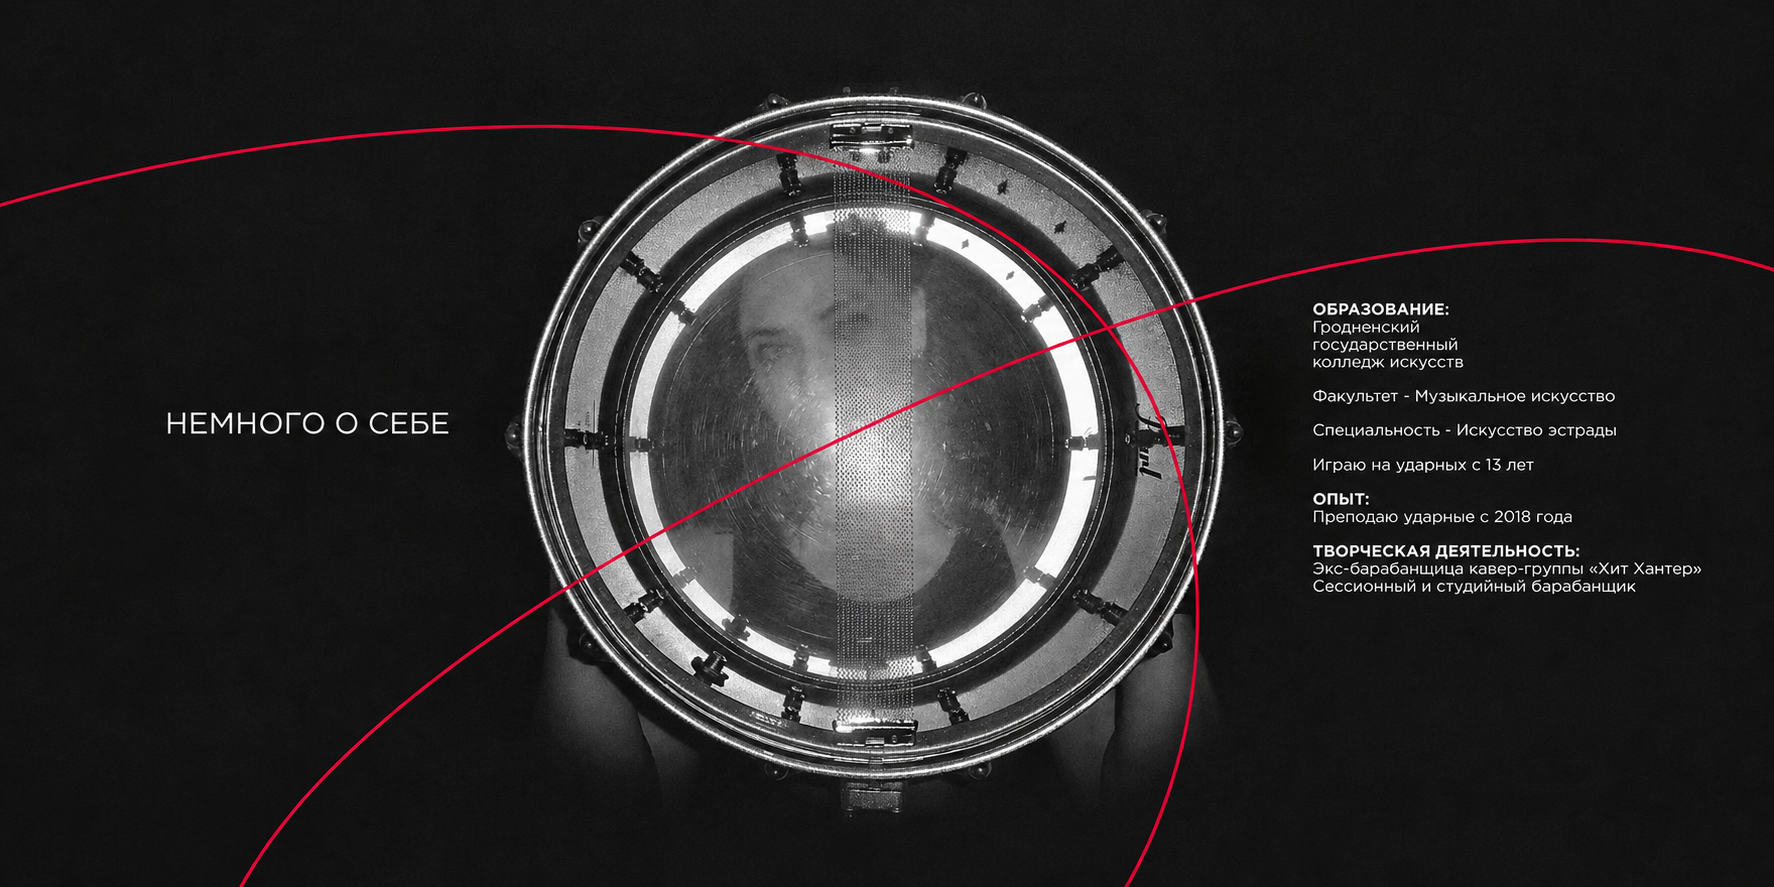
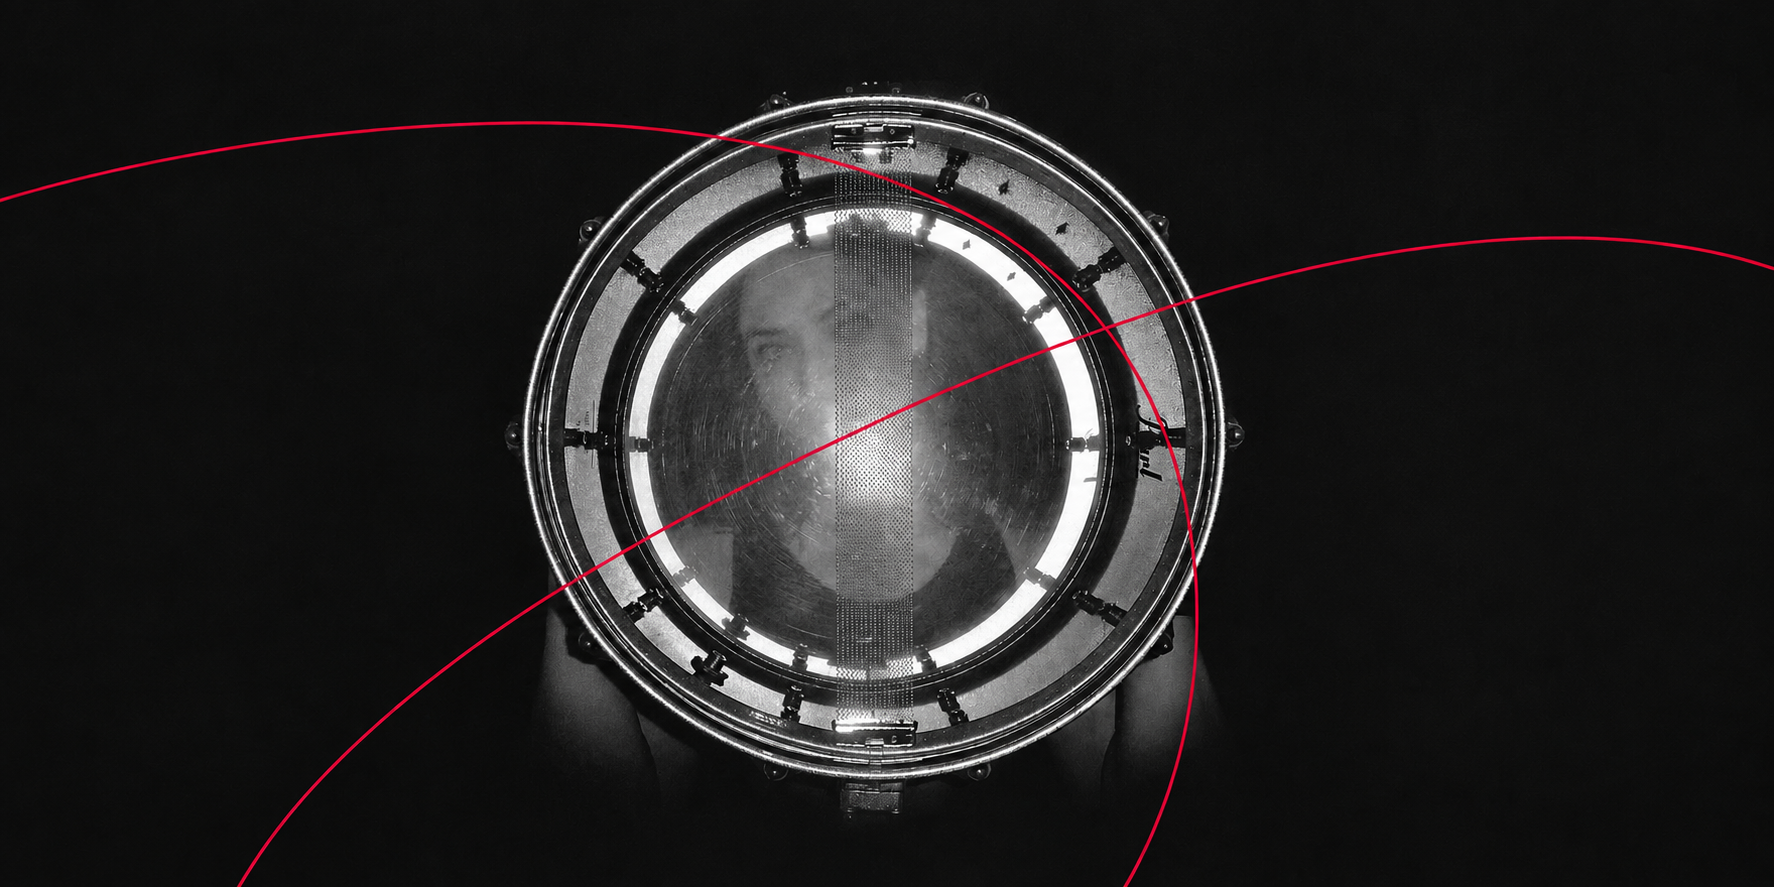
бейдж препода + пикер

diff --git a/src/pages/Landing.tsx b/src/pages/Landing.tsx
@@ -8,6 +8,65 @@ import drumsTeacherImg from '../assets/about_teacher_drum.png';
 
 type Mode = "guitar" | "drums";
 
+function GuitarIcon({ className }: { className?: string }) {
+  return (
+    <svg viewBox="0 0 24 24" fill="none" className={className}>
+      <path d="M14 3L21 10" stroke="currentColor" strokeWidth="1.5" strokeLinecap="round" />
+      <circle cx="14" cy="3" r="1.4" stroke="currentColor" strokeWidth="1.5" />
+      <path d="M9.5 8.5L15.5 14.5" stroke="currentColor" strokeWidth="1.5" strokeLinecap="round" />
+      <circle cx="7" cy="17" r="5" stroke="currentColor" strokeWidth="1.5" />
+      <circle cx="7" cy="17" r="1.6" stroke="currentColor" strokeWidth="1.5" />
+    </svg>
+  );
+}
+
+function DrumIcon({ className }: { className?: string }) {
+  return (
+    <svg viewBox="0 0 24 24" fill="none" className={className}>
+      <ellipse cx="12" cy="7" rx="8" ry="3" stroke="currentColor" strokeWidth="1.5" />
+      <path d="M4 7v6c0 1.66 3.58 3 8 3s8-1.34 8-3V7" stroke="currentColor" strokeWidth="1.5" />
+      <path d="M7 3l2 3M17 3l-2 3" stroke="currentColor" strokeWidth="1.5" strokeLinecap="round" />
+    </svg>
+  );
+}
+
+function TeacherPass({
+  photo,
+  role,
+  tone,
+  fields,
+}: {
+  photo: string;
+  role: string;
+  tone: "orange" | "red";
+  fields: [string, string][];
+}) {
+  const border = tone === "red" ? "border-rl-red" : "border-rl-orange";
+  const text = tone === "red" ? "text-rl-red" : "text-rl-orange";
+  return (
+    <div className={"relative mx-auto max-w-sm rotate-[-3deg] rounded-3xl border-2 bg-neutral-900 p-2 shadow-2xl " + border}>
+      <div className="absolute -top-3 left-1/2 -translate-x-1/2 w-9 h-9 rounded-full bg-rl-bg border-2 border-neutral-700 z-10" />
+      <div className="rounded-2xl overflow-hidden bg-neutral-900">
+        <div className="aspect-[3/4] relative">
+          <img src={photo} alt={role} className="w-full h-full object-cover grayscale" />
+          <div className="absolute inset-x-0 bottom-0 h-28 bg-gradient-to-t from-neutral-900 to-transparent" />
+        </div>
+        <div className="p-5">
+          <div className={"rl-mono text-[10px] mb-3 tracking-widest " + text}>ALL ACCESS · {role}</div>
+          <div className="space-y-1.5 border-t border-neutral-800 pt-3">
+            {fields.map(([k, v]) => (
+              <div key={k} className="flex justify-between text-xs rl-mono">
+                <span className="text-rl-muted">{k}</span>
+                <span>{v}</span>
+              </div>
+            ))}
+          </div>
+        </div>
+      </div>
+    </div>
+  );
+}
+
 function GearImage({ items }: { items: { label: string; src: string }[] }) {
   const [tab, setTab] = useState(0);
   return (
@@ -151,74 +210,39 @@ function CTA({
 }
 
 function Picker({ mode, setMode }: { mode: Mode; setMode: (m: Mode) => void }) {
+  const cards: { key: Mode; label: string; desc: string; Icon: typeof GuitarIcon; tone: "orange" | "red" }[] = [
+    { key: "guitar", label: "RIFF LAB12", desc: "Электро и акустическая гитара", Icon: GuitarIcon, tone: "orange" },
+    { key: "drums", label: "DRUM LAB12", desc: "Ударная установка", Icon: DrumIcon, tone: "red" },
+  ];
   return (
     <div className="grid sm:grid-cols-2 gap-3 sm:gap-4 max-w-xl mx-auto mb-6 sm:mb-10">
-
-      {/* Гитарная карточка */}
-      <button
-        type="button"
-        onClick={() => setMode("guitar")}
-        aria-pressed={mode === "guitar"}
-        className={
-          "group relative text-left rounded-2xl border-2 p-4 sm:p-5 cursor-pointer select-none " +
-          "transition-all duration-200 ease-out will-change-transform " +
-          "hover:-translate-y-0.5 hover:shadow-lg hover:shadow-rl-orange/10 " +
-          "active:translate-y-0 active:scale-[0.98] " +
-          "focus-visible:outline-none focus-visible:ring-2 focus-visible:ring-rl-orange/60 focus-visible:ring-offset-2 focus-visible:ring-offset-rl-bg " +
-          (mode === "guitar"
-            ? "border-rl-orange bg-rl-orange/10 shadow-lg shadow-rl-orange/10"
-            : "border-rl-line bg-rl-panel/40 hover:border-rl-orange/60 hover:bg-rl-orange/5")
-        }
-      >
-        <div className="text-xl sm:text-2xl mb-0.5 sm:mb-1 transition-transform duration-200 group-hover:scale-110 group-active:scale-95">
-          🎸
-        </div>
-        <div className="rl-display text-lg sm:text-xl mb-0.5">RIFF LAB12</div>
-        <div className="text-xs text-rl-muted">Электро и акустическая гитара</div>
-
-        <span
-          className={
-            "absolute top-3 right-3 rl-mono text-xs transition-opacity duration-200 " +
-            (mode === "guitar" ? "opacity-100 text-rl-orange" : "opacity-0")
-          }
-          aria-hidden
-        >
-          ✓
-        </span>
-      </button>
-
-      {/* Барабанная карточка */}
-      <button
-        type="button"
-        onClick={() => setMode("drums")}
-        aria-pressed={mode === "drums"}
-        className={
-          "group relative text-left rounded-2xl border-2 p-4 sm:p-5 cursor-pointer select-none " +
-          "transition-all duration-200 ease-out will-change-transform " +
-          "hover:-translate-y-0.5 hover:shadow-lg hover:shadow-rl-red/10 " +
-          "active:translate-y-0 active:scale-[0.98] " +
-          "focus-visible:outline-none focus-visible:ring-2 focus-visible:ring-rl-red/60 focus-visible:ring-offset-2 focus-visible:ring-offset-rl-bg " +
-          (mode === "drums"
-            ? "border-rl-red bg-rl-red/10 shadow-lg shadow-rl-red/10"
-            : "border-rl-line bg-rl-panel/40 hover:border-rl-red/60 hover:bg-rl-red/5")
-        }
-      >
-        <div className="text-xl sm:text-2xl mb-0.5 sm:mb-1 transition-transform duration-200 group-hover:scale-110 group-active:scale-95">
-          🥁
-        </div>
-        <div className="rl-display text-lg sm:text-xl mb-0.5">DRUM LAB12</div>
-        <div className="text-xs text-rl-muted">Ударная установка</div>
-
-        <span
-          className={
-            "absolute top-3 right-3 rl-mono text-xs transition-opacity duration-200 " +
-            (mode === "drums" ? "opacity-100 text-rl-red" : "opacity-0")
-          }
-          aria-hidden
-        >
-          ✓
-        </span>
-      </button>
+      {cards.map(({ key, label, desc, Icon, tone }) => {
+        const active = mode === key;
+        const border = tone === "red" ? "border-rl-red" : "border-rl-orange";
+        const text = tone === "red" ? "text-rl-red" : "text-rl-orange";
+        const shadow = tone === "red" ? "shadow-rl-red/20" : "shadow-rl-orange/20";
+        const dot = tone === "red" ? "bg-rl-red" : "bg-rl-orange";
+        return (
+          <button
+            key={key}
+            type="button"
+            onClick={() => setMode(key)}
+            aria-pressed={active}
+            className={
+              "group relative text-left rounded-2xl border-2 p-4 sm:p-5 cursor-pointer select-none " +
+              "transition-all duration-300 ease-out focus-visible:outline-none focus-visible:ring-2 focus-visible:ring-offset-2 focus-visible:ring-offset-rl-bg " +
+              (active
+                ? border + " bg-rl-panel shadow-lg " + shadow
+                : "border-rl-line bg-rl-panel/20 opacity-50 grayscale hover:opacity-80 hover:grayscale-0")
+            }
+          >
+            <Icon className={"w-7 h-7 sm:w-8 sm:h-8 mb-2 " + (active ? text : "text-rl-muted")} />
+            <div className="rl-display text-lg sm:text-xl mb-0.5">{label}</div>
+            <div className="text-xs text-rl-muted">{desc}</div>
+            {active && <span className={"absolute top-4 right-4 w-2 h-2 rounded-full " + dot} />}
+          </button>
+        );
+      })}
     </div>
   );
 }
@@ -261,12 +285,13 @@ export default function Landing() {
   useEffect(() => {
     const onScroll = () => {
       const pastHero = window.scrollY > window.innerHeight * 0.9;
-      const contact = document.getElementById("contact");
-      // если секция #contact показалась хотя бы на 40% — прячем кнопку
-      const atContact = contact
-        ? contact.getBoundingClientRect().top < window.innerHeight * 0.6
-        : false;
-      setShowCta(pastHero && !atContact);
+      const hideNear = (id: string) => {
+        const el = document.getElementById(id);
+        if (!el) return false;
+        const rect = el.getBoundingClientRect();
+        return rect.top < window.innerHeight * 0.6 && rect.bottom > window.innerHeight * 0.1;
+      };
+      setShowCta(pastHero && !hideNear("contact") && !hideNear("team"));
     };
     onScroll();
     window.addEventListener("scroll", onScroll, { passive: true });
@@ -317,7 +342,7 @@ export default function Landing() {
       </div>
     </header>
 
-      <section className="relative pt-40 pb-24 px-6 overflow-hidden min-h-[85vh] flex items-center">
+      <section className="relative pt-24 sm:pt-32 md:pt-40 pb-16 sm:pb-20 md:pb-24 px-6 overflow-hidden min-h-[85vh] flex items-center">
         <video
           className="absolute inset-0 w-full h-full object-cover opacity-45"
           src={`${import.meta.env.BASE_URL}media/hero.mp4`}
@@ -546,66 +571,100 @@ export default function Landing() {
         </Reveal>
       </section>
 
-      <section id="team" className="max-w-6xl mx-auto px-6 py-24">
-        <Reveal key={mode}>
-          {g ? (
-            <div className="grid md:grid-cols-2 gap-12 items-center">
-              <div className="relative rounded-3xl overflow-hidden border border-rl-line aspect-[4/5]">
-                <img
-                  src={guitarTeacherImg}
-                  alt="Преподаватель гитары Riff Lab12"
-                  className="absolute inset-0 w-full h-full object-cover"
-                />
-              </div>
-              <div>
-                <Kicker tone="orange">Преподаватель · Гитара</Kicker>
-                <h2 className="rl-display text-3xl sm:text-4xl md:text-5xl mb-6">
-                  С кем вы будете заниматься
-                </h2>
-                <div className="rl-mono text-xs text-rl-orange mb-3">Riff Lab12</div>
-                <p className="text-sm md:text-base text-rl-muted leading-relaxed mb-6">
-                  Индивидуальные занятия на электро и акустической гитаре для взрослых и детей, уровень с нуля.
-                  Записаться — Telegram @riff_arina или директ Instagram.
-                </p>
-                <CTA href="https://t.me/riff_arina" ext tone="orange">
-                  Записаться к преподавателю
-                </CTA>
-              </div>
-            </div>
-          ) : (
-            /* ─── Преподаватель барабанов: большое фото на весь блок ─── */
-            <div className="relative rounded-3xl overflow-hidden border border-rl-line min-h-[600px] md:min-h-[680px] flex items-end">
-              {/* Фото на фон */}
-              <img
-                src={drumsTeacherImg}
-                alt="Преподаватель ударных Drum Lab12"
-                className="absolute inset-0 w-full h-full object-cover object-center"
-              />
+<section id="team" className="max-w-6xl mx-auto px-6 py-24">
+  <Reveal key={mode}>
+      {g ? (
+        <div className="grid lg:grid-cols-[380px_1fr] gap-12 lg:gap-16 items-center">
+          <TeacherPass
+            photo={guitarTeacherImg}
+            role="RIFF LAB12"
+            tone="orange"
+            fields={[
+              ["Специализация", "Электро и акустика"],
+              ["Уровень", "С нуля"],
+              ["Занятие", "60 минут"],
+              ["Формат", "Индивидуально"],
+            ]}
+          />
+          <div>
+            <Kicker tone="orange">Преподаватель · Гитара</Kicker>
+            <p className="rl-display text-3xl md:text-4xl leading-tight mb-6">
+              «Гитара — честная конкуренция со стрессом»
+            </p>
+            <p className="text-sm md:text-base text-rl-muted leading-relaxed mb-8 max-w-md">
+              Индивидуальные занятия на электро и акустической гитаре для взрослых и детей, уровень
+              с нуля. Записаться — Telegram @riff_arina или директ Instagram.
+            </p>
+            <CTA href="https://t.me/riff_arina" ext tone="orange">
+              Записаться к преподавателю
+            </CTA>
+          </div>
+        </div>
+      ) : (
 
-              {/* Затемняющий градиент снизу, чтобы текст читался */}
-              <div className="absolute inset-0 bg-gradient-to-t from-rl-bg via-rl-bg/70 to-transparent" />
-              <div className="absolute inset-0 bg-gradient-to-r from-rl-bg/60 via-transparent to-transparent" />
+      /* ─── Преподаватель барабанов: большое фото на весь блок ─── */
+      <div className="relative rounded-3xl overflow-hidden border border-rl-line min-h-[600px] md:min-h-[680px] flex items-end">
+        {/* Фото на фон */}
+        <img
+          src={drumsTeacherImg}
+          alt="Преподаватель ударных Drum Lab12"
+          className="absolute inset-0 w-full h-full object-cover object-center"
+        />
 
-              {/* Текст поверх фото */}
-              <div className="relative z-10 p-8 md:p-14 max-w-2xl">
-                <Kicker tone="red">Преподаватель · Ударные</Kicker>
-                <h2 className="rl-display text-3xl sm:text-4xl md:text-5xl mb-6">
-                  С кем вы будете заниматься
-                </h2>
-                <div className="rl-mono text-xs text-rl-red mb-3">Drum Lab12</div>
-                <p className="text-sm md:text-base text-rl-muted leading-relaxed mb-6">
-                  Гродненский гос. колледж искусств, факультет «Музыкальное искусство», специальность
-                  «Искусство эстрады». На ударных с 13 лет, преподаёт с 2018. Экс-барабанщица
-                  кавер-группы «Хит Хантер», сессионный и студийный барабанщик.
-                </p>
-                <CTA href={igUrl} ext tone="red">
-                  Записаться к преподавателю
-                </CTA>
+        {/* Нижний градиент — тёмный низ */}
+        <div className="absolute inset-0 bg-gradient-to-t from-rl-bg via-rl-bg/60 to-transparent" />
+
+        {/* Левый градиент — тёмный левый край */}
+        <div className="absolute inset-0 bg-gradient-to-r from-rl-bg via-rl-bg/60 to-transparent" />
+
+        {/* Лёгкое затемнение всего фото для общей глубины */}
+        <div className="absolute inset-0 bg-black/20" />
+
+        {/* Текст поверх фото */}
+        <div className="relative z-10 p-8 md:p-14 max-w-2xl">
+          <Kicker tone="red">Преподаватель · Ударные</Kicker>
+          <h2 className="rl-display text-3xl sm:text-4xl md:text-5xl mb-6">
+            С кем вы будете заниматься
+          </h2>
+          <div className="rl-mono text-xs text-rl-red mb-5">Drum Lab12</div>
+
+          <div className="space-y-4 mb-6">
+            <div>
+              <div className="rl-mono text-[11px] text-rl-red mb-1.5 tracking-widest uppercase">
+                Образование
               </div>
+              <p className="text-sm md:text-base text-rl-muted leading-relaxed">
+                Гродненский государственный колледж искусств · факультет «Музыкальное искусство» · специальность «Искусство эстрады»
+              </p>
             </div>
-          )}
-        </Reveal>
-      </section>
+
+            <div>
+              <div className="rl-mono text-[11px] text-rl-red mb-1.5 tracking-widest uppercase">
+                Опыт
+              </div>
+              <p className="text-sm md:text-base text-rl-muted leading-relaxed">
+                Играю на ударных с 13 лет. Преподаю с 2018 года.
+              </p>
+            </div>
+
+            <div>
+              <div className="rl-mono text-[11px] text-rl-red mb-1.5 tracking-widest uppercase">
+                Творческая деятельность
+              </div>
+              <p className="text-sm md:text-base text-rl-muted leading-relaxed">
+                Экс-барабанщица кавер-группы «Хит Хантер». Сессионный и студийный барабанщик.
+              </p>
+            </div>
+          </div>
+
+          <CTA href={igUrl} ext tone="red">
+            Записаться к преподавателю
+          </CTA>
+        </div>
+      </div>
+    )}
+  </Reveal>
+</section>
 
       <section id="pricing" className="bg-rl-panel border-y border-rl-line py-24 px-6">
         <Reveal className="max-w-md mx-auto">
@@ -679,15 +738,18 @@ export default function Landing() {
 {/* ─── Плавающая кнопка только на мобильных ─── */}
 <div
   className={
-    "fixed bottom-4 left-4 right-4 z-50 md:hidden transition-all duration-500 ease-out motion-reduce:transition-none " +
+    "fixed bottom-5 inset-x-0 z-50 flex justify-center px-6 md:hidden transition-all duration-500 ease-out motion-reduce:transition-none " +
     (showCta ? "opacity-100 translate-y-0" : "opacity-0 translate-y-6 pointer-events-none")
   }
 >
   <a
     href="#contact"
     className={
-      "flex items-center justify-center w-full py-3.5 px-6 text-rl-bg font-bold rl-mono text-xs tracking-wider uppercase rounded-full shadow-2xl active:scale-95 transition-transform " +
-      (g ? "bg-rl-orange shadow-rl-orange/30" : "bg-rl-red shadow-rl-red/30")
+      "flex items-center justify-center gap-2 py-3 px-7 rl-mono text-xs tracking-wider uppercase rounded-full " +
+      "backdrop-blur-md bg-rl-bg/60 border shadow-2xl active:scale-95 transition-transform " +
+      (g
+        ? "border-rl-orange/50 text-rl-orange shadow-rl-orange/10"
+        : "border-rl-red/50 text-rl-red shadow-rl-red/10")
     }
   >
     Записаться на пробное
